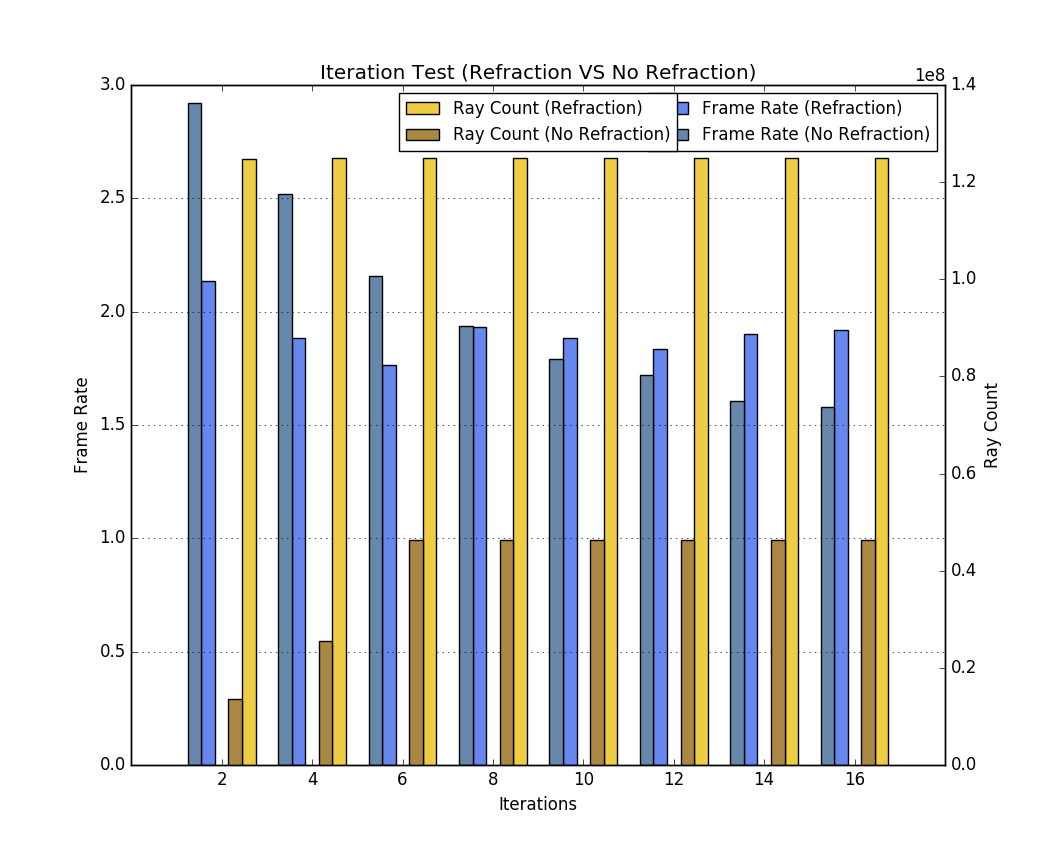
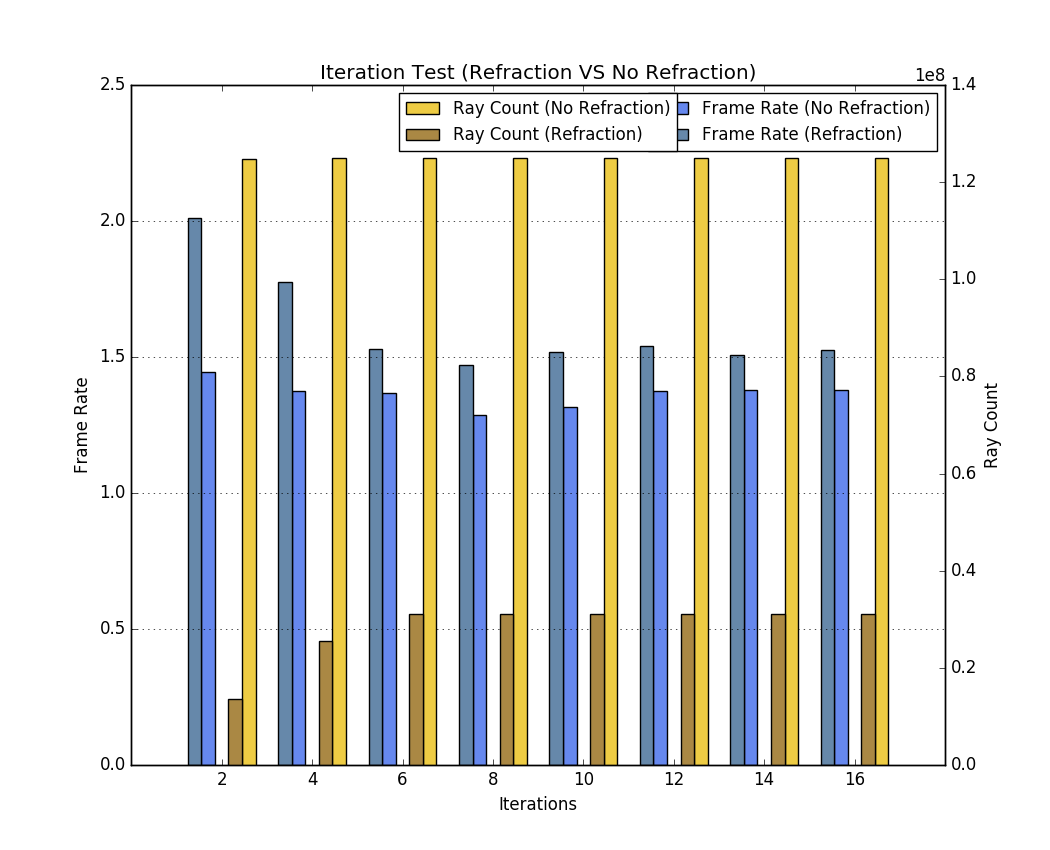
Can do automatic test w/ or w/o refraction and with different arguments

diff --git a/EEC277_Project/main.cpp b/EEC277_Project/main.cpp
@@ -73,9 +73,9 @@ const float distances[] = {10.0f, 13.0f, 16.0f, 19.0f, 22.0f, 25.0f, 28.0f, 31.0
 const char usageString[] = {"\
 [-n]\tSet number of spheres\n \
 [-i]\tSet number of iterations\n \
-[-p]\tAdd a plane to the scene\n \
-[-m]\tEnable light movement\n \
-[-r]\tEnable refraction calculation\n \
+[-p]\tRemove a plane from the scene\n \
+[-m]\tDisable light movement\n \
+[-r]\tDisable refraction\n \
 [-o]\tTurn off ray rate calculation\n \
 [-nt]\tDo number test\n \
 [-it]\tDo iteration test\n \
@@ -105,17 +105,17 @@ void parseArgs(int argc, char **argv, TestStruct *testStruct) {
             argc--;
             testStruct->iterations = atoi(argv[i]);
         }
-        else if (strcmp(argv[i],"-p") == 0) // With plane
+        else if (strcmp(argv[i],"-p") == 0) // Without plane
         {
-            testStruct->withPlane = true;
+            testStruct->withPlane = false;
         }
-        else if (strcmp(argv[i],"-m") == 0) // Moving light
+        else if (strcmp(argv[i],"-m") == 0) // Fixed light
         {
-            testStruct->lightMoving = true;
+            testStruct->lightMoving = false;
         }
-        else if (strcmp(argv[i],"-r") == 0) // Use refraction
+        else if (strcmp(argv[i],"-r") == 0) // No refraction
         {
-            testStruct->canRefract = true;
+            testStruct->canRefract = false;
         }
         else if (strcmp(argv[i],"-o") == 0) // Turn off ray calculation
         {
@@ -244,9 +244,9 @@ int main(int argc, char **argv)
     // Initialize parameters and parse arguments
     testStruct.nums = INIT_SPHERE_NUM;
     testStruct.iterations = INIT_ITERATION_NUM;
-    testStruct.withPlane = false;
-    testStruct.lightMoving = false;
-    testStruct.canRefract = false;
+    testStruct.withPlane = true;
+    testStruct.lightMoving = true;
+    testStruct.canRefract = true;
     testStruct.turnOffRayCalculation = false;
     testStruct.doNumberTest = false;
     testStruct.doDistanceTest = false;
@@ -283,12 +283,12 @@ int main(int argc, char **argv)
     // Can Refract
     // Calculate ray count
     // Resolution 800*600
-    if(testStruct.doDistanceTest || testStruct.doIterationTest || testStruct.doNumberTest || testStruct.doStandardTest) {
-        testStruct.withPlane = true;
-        testStruct.lightMoving = true;
-        testStruct.canRefract = true;
-        testStruct.turnOffRayCalculation = false;
-    }
+    // if(testStruct.doDistanceTest || testStruct.doIterationTest || testStruct.doNumberTest || testStruct.doStandardTest) {
+    //     testStruct.withPlane = true;
+    //     testStruct.lightMoving = true;
+    //     testStruct.canRefract = true;
+    //     testStruct.turnOffRayCalculation = false;
+    // }
     
     // Array to store ray calculation count data
     GLfloat* rayRateArray = new GLfloat[WIDTH * MUL * HEIGHT * MUL];
@@ -400,19 +400,22 @@ int main(int argc, char **argv)
     
     std::string filename = "";
     if(testStruct.doNumberTest)
-        filename += "NumberTest.txt";
+        filename += "NumberTest";
     else if(testStruct.doIterationTest)
-        filename += "IterationTest.txt";
+        filename += "IterationTest";
     else if(testStruct.doDistanceTest)
-        filename += "DistanceTest.txt";
+        filename += "DistanceTest";
     else if(testStruct.doStandardTest)
-        filename += "Standard.txt";
-    
-    std::cout << "here" << std::endl;
+        filename += "Standard";
+
+    if(!testStruct.doNumberTest && testStruct.nums != INIT_SPHERE_NUM)
+        filename += "_" + std::to_string(testStruct.nums);
+    if(!testStruct.canRefract)
+        filename += "_NR";
+    filename += ".txt";
     
     FILE *df;
     if(testStruct.doNumberTest || testStruct.doStandardTest || testStruct.doDistanceTest || testStruct.doIterationTest) {
-        std::cout << "there" << std::endl;
         df = fopen(filename.c_str(),"w");
         if(testStruct.doStandardTest)
             fprintf(df, "Spheres\tIterations\tDistance\tPlane\tLight Moving\tRefraction\tFrame Rate\tRay Count\n");

diff --git a/Draw.py b/Draw.py
@@ -56,7 +56,7 @@ for name in files:
 	elif testname == "IterationTest":
 		y11 = df["Frame Rate"]
 		y22 = df["Ray Count"]
-	elif testname == "IterationTest_R":
+	elif testname == "IterationTest_NR":
 		x = df["Iterations"]
 		y1 = df["Frame Rate"]
 		y2 = df["Ray Count"]
@@ -67,10 +67,10 @@ for name in files:
 
 		y1 = df["Frame Rate"]
 		y2 = df["Ray Count"]
-		frr = y11.plot(kind="bar", ax=ax1, width=0.15, position=1.5, color="#6688EE", label="Frame Rate (Refraction)")
-		fr = y1.plot(kind="bar", ax=ax1, width=0.15, position=2.5, color="#6688AA", label="Frame Rate (No Refraction)")
-		rcc = y22.plot(kind="bar", ax=ax2, width=0.15, position=-1.5, color="#EECC44", label="Ray Count (Refraction)")
-		rc = y2.plot(kind="bar", ax=ax2, width=0.15, position=-0.5, color="#AA8844", label="Ray Count (No Refraction)")
+		frr = y11.plot(kind="bar", ax=ax1, width=0.15, position=1.5, color="#6688EE", label="Frame Rate (No Refraction)")
+		fr = y1.plot(kind="bar", ax=ax1, width=0.15, position=2.5, color="#6688AA", label="Frame Rate (Refraction)")
+		rcc = y22.plot(kind="bar", ax=ax2, width=0.15, position=-1.5, color="#EECC44", label="Ray Count (No Refraction)")
+		rc = y2.plot(kind="bar", ax=ax2, width=0.15, position=-0.5, color="#AA8844", label="Ray Count (Refraction)")
 
 		plt.xlim(-1, 8)
 
@@ -90,7 +90,7 @@ for name in files:
 	elif testname == "NumberTest":
 		y11 = df["Frame Rate"]
 		y22 = df["Ray Count"]
-	elif testname == "NumberTest_R":
+	elif testname == "NumberTest_NR":
 		x = [1,2,3,4,5,6]
 		y1 = df["Frame Rate"]
 		y2 = df["Ray Count"]
@@ -101,10 +101,10 @@ for name in files:
 
 		y1 = df["Frame Rate"]
 		y2 = df["Ray Count"]
-		frr = y11.plot(kind="bar", ax=ax1, width=0.15, position=1.5, color="#6688EE", label="Frame Rate (Refraction)")
-		fr = y1.plot(kind="bar", ax=ax1, width=0.15, position=2.5, color="#6688AA", label="Frame Rate (No Refraction)")
-		rcc = y22.plot(kind="bar", ax=ax2, width=0.15, position=-1.5, color="#EECC44", label="Ray Count (Refraction)")
-		rc = y2.plot(kind="bar", ax=ax2, width=0.15, position=-0.5, color="#AA8844", label="Ray Count (No Refraction)")
+		frr = y11.plot(kind="bar", ax=ax1, width=0.15, position=1.5, color="#6688EE", label="Frame Rate (No Refraction)")
+		fr = y1.plot(kind="bar", ax=ax1, width=0.15, position=2.5, color="#6688AA", label="Frame Rate (Refraction)")
+		rcc = y22.plot(kind="bar", ax=ax2, width=0.15, position=-1.5, color="#EECC44", label="Ray Count (No Refraction)")
+		rc = y2.plot(kind="bar", ax=ax2, width=0.15, position=-0.5, color="#AA8844", label="Ray Count (Refraction)")
 
 		plt.xlim(-1, 6)
 
